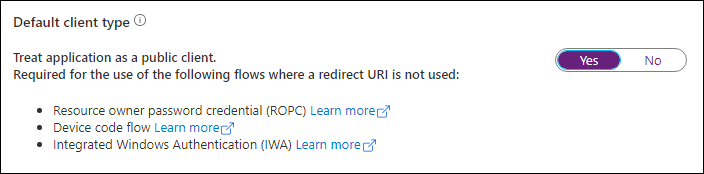
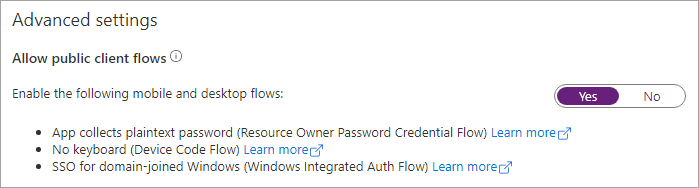
FY21Q4 refresh - msgraph-access-user-data
- run through all exercise steps in associated MSLearn module to validate good working order
- updated steps & fixed typos where necessary
- implement changes per Acrolinx feedback
- any & all users/names/company names/pictures/IDs are not real people/tenants... all are from M365 demo tenants provided by Microsoft

diff --git a/learn-m365-pr/m365-developer/msgraph-access-user-data/includes/3-exercise-reading-users.md b/learn-m365-pr/m365-developer/msgraph-access-user-data/includes/3-exercise-reading-users.md
@@ -37,7 +37,7 @@ In the **Redirect URIs** section of the **Configure Desktop + devices** panel, s
 
 ![Screenshot of the Configure Desktop + devices panel](../media/azure-ad-portal-new-app-03.png)
 
-In the **Authentication** panel, scroll down to the **Default client type** section and set the toggle to **Yes**.
+In the **Authentication** panel, scroll down to the **Allow public client flows** section and set the toggle to **Yes**.
 
 ![Screenshot of the Default client type section](../media/azure-ad-portal-new-app-04.png)
 
@@ -66,9 +66,12 @@ Enter **User.R** in the **Select permissions** search box and select the **User.
 In the **Configured Permissions** panel, select the button **Grant admin consent for [tenant]**, and then select the **Yes** button in the consent dialog to grant all users in your organization this permission.
 
 > [!NOTE]
-> The option to **Grant admin consent** here in the Azure AD admin center is pre-consenting the permissions to the users in the tenant to simplify the exercise. This approach allows the console application to use the [resource owner password credential grant](https://docs.microsoft.com/azure/active-directory/develop/v2-oauth-ropc), so the user isn't prompted to grant consent to the application that simplifies the process of obtaining an OAuth access token. You could elect to implement alternative options such as the [device code flow](https://docs.microsoft.com/azure/active-directory/develop/v2-oauth2-device-code) to utilize dynamic consent as another option.
+> The option to **Grant admin consent** here in the Azure AD admin center is pre-consenting the permissions to the users in the tenant to simplify the exercise. This approach allows the console application to use the [resource owner password credential grant](/azure/active-directory/develop/v2-oauth-ropc), so the user isn't prompted to grant consent to the application that simplifies the process of obtaining an OAuth access token. You could elect to implement alternative options such as the [device code flow](/azure/active-directory/develop/v2-oauth2-device-code) to utilize dynamic consent as another option.
 
 ## Create .NET Core console application
+
+> [!NOTE]
+> The instructions below assume you are using .NET 5. They were last tested using v5.0.202 of the .NET 5 SDK.
 
 Open your command prompt, navigate to a directory where you have rights to create your project, and run the following command to create a new .NET Core console application:
 
